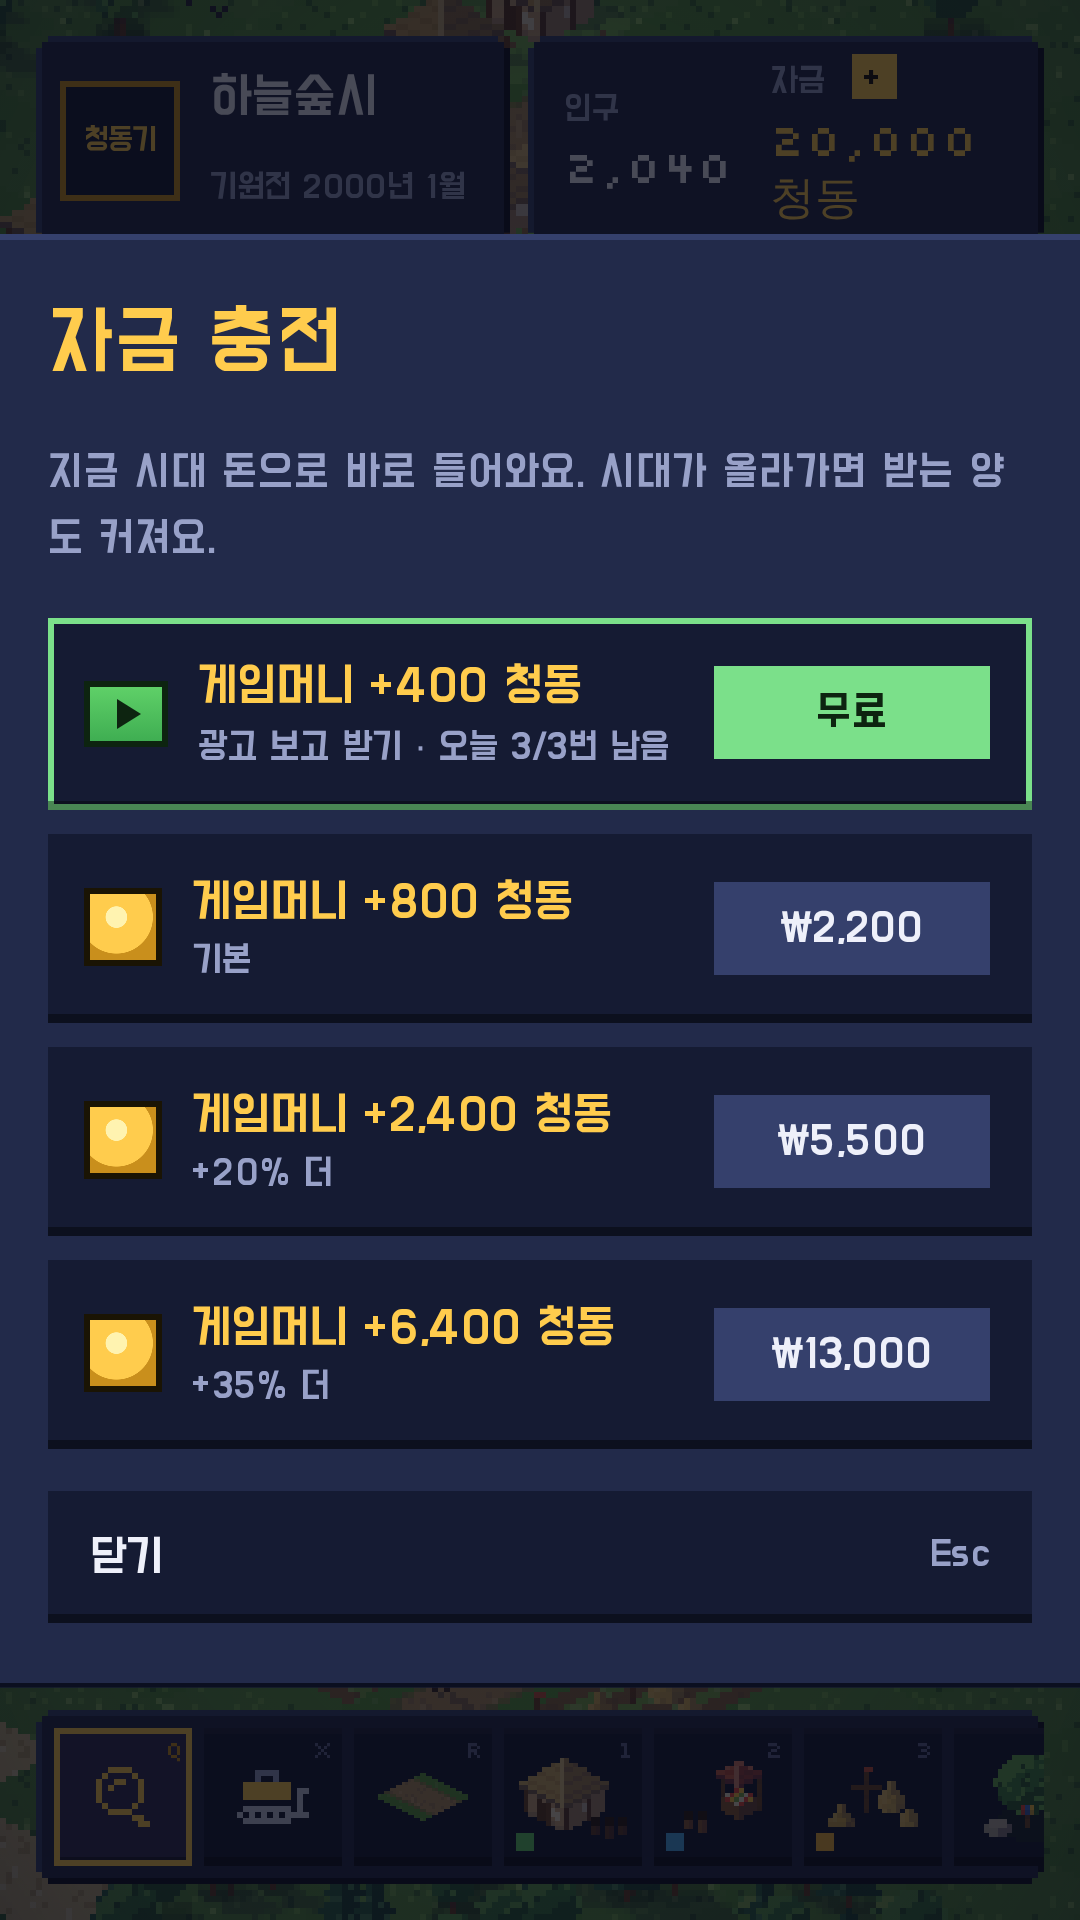
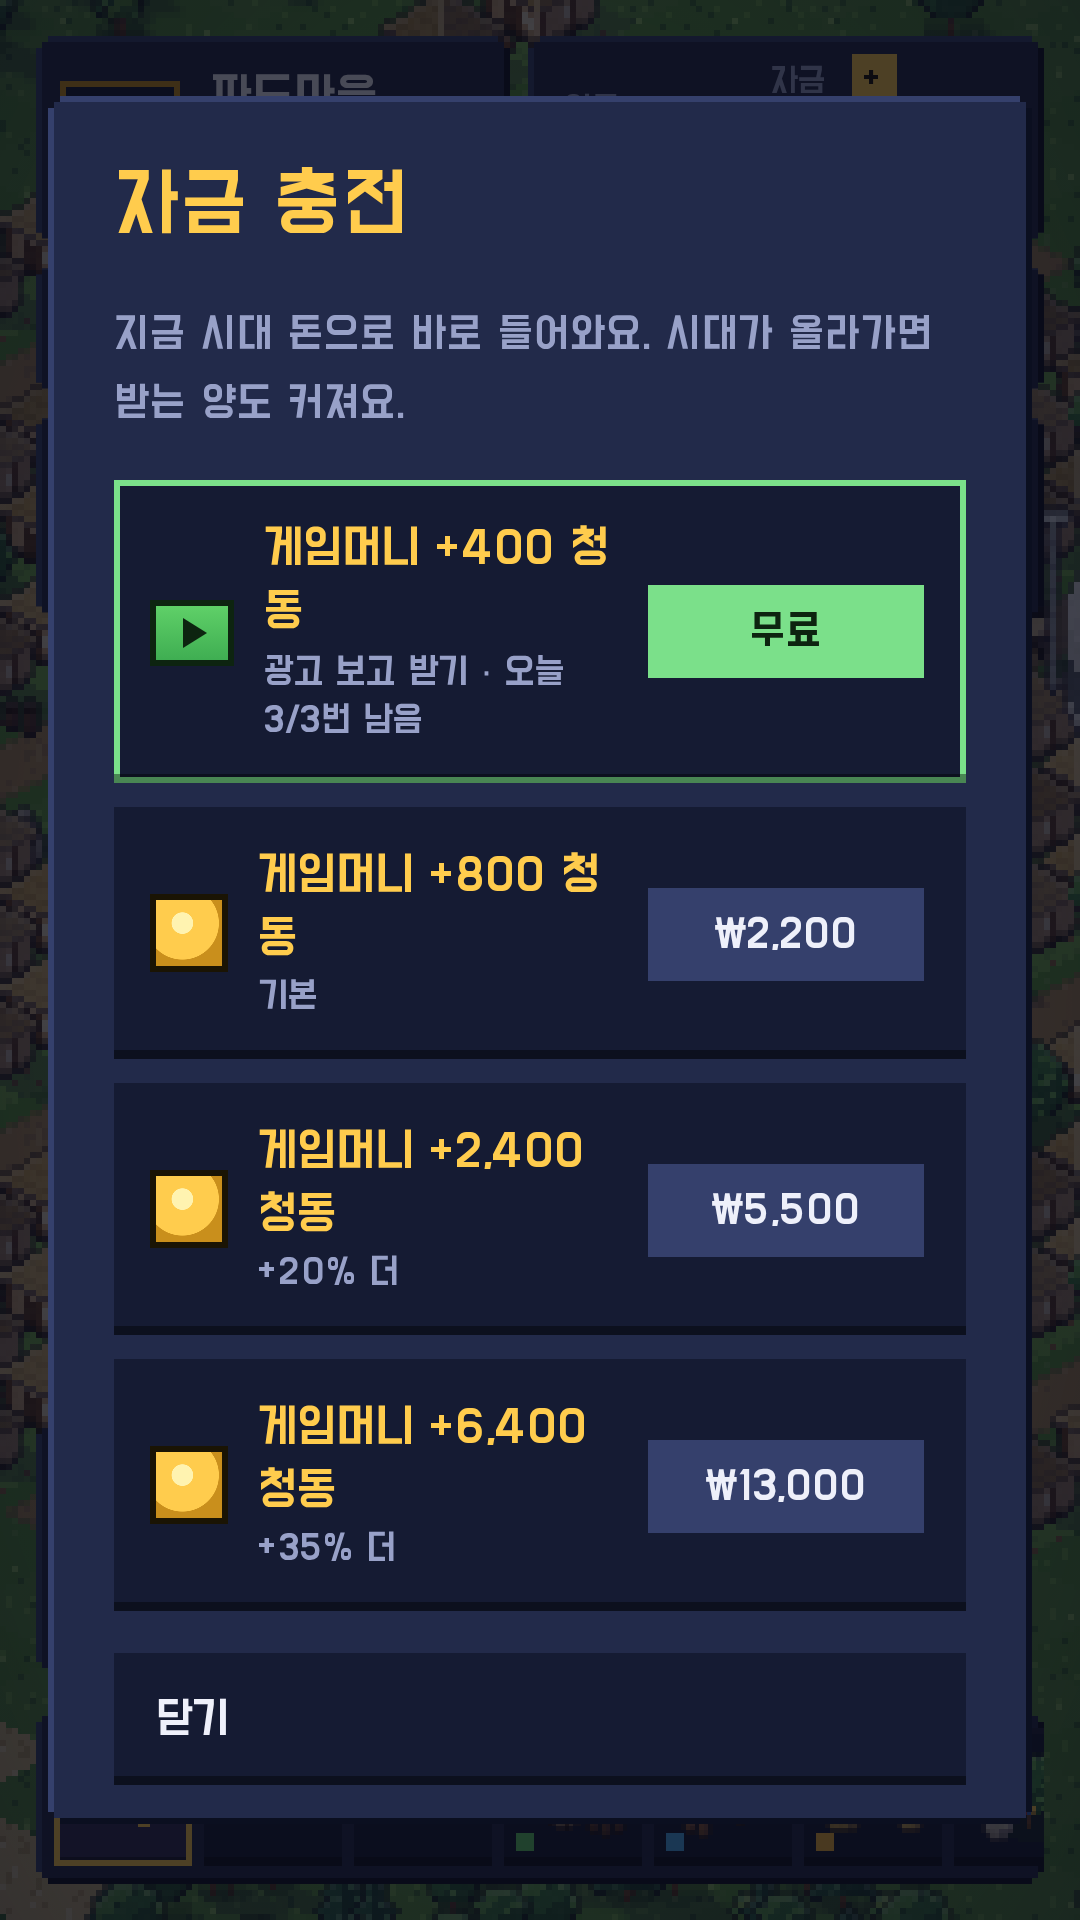
Store screenshots at 1206x2622 for App Store Connect's Dynamic Island iPhone slot
Claude-Session: https://claude.ai/code/session_01XxvA4eUhsjPuZbBYtpabHX

diff --git a/dotcity-app/README.md b/dotcity-app/README.md
@@ -15,7 +15,7 @@ dotcity-app/
 │  ├─ make-art.cjs         게임 스프라이트로 앱 아이콘·시작 화면 그리기
 │  └─ make-screenshots.cjs 스토어 스크린샷 그리기
 ├─ assets/                 아이콘·시작 화면 원본, 내장 폰트
-├─ store/screenshots/      스토어용 스크린샷 (iPhone 1290×2796, Android 1080×1920)
+├─ store/screenshots/      스토어용 스크린샷 (iPhone 1206×2622, Android 1080×1920)
 ├─ android/                Android Studio 프로젝트
 └─ ios/                    Xcode 프로젝트 (Swift Package Manager, CocoaPods 불필요)
 ```
@@ -79,7 +79,7 @@ Xcode에서는 처음 한 번 **App 타깃 → Signing & Capabilities → Team**
 2. [App Store Connect](https://appstoreconnect.apple.com) → **나의 앱 → +** → 번들 ID `com.eyisyun.dotcity`로 새 앱을 만듭니다.
 3. Xcode에서 기기를 **Any iOS Device**로 두고 **Product → Archive** → **Distribute App → App Store Connect**.
 4. App Store Connect에서 채울 것:
-   - 스크린샷: `store/screenshots/ios-*.png` (1290×2796)
+   - 스크린샷: `store/screenshots/ios-*.png` (1206×2622)
    - 설명·키워드(아래 예시), 카테고리 **게임 → 시뮬레이션**, 연령 등급 설문
    - 개인정보처리방침 URL, **앱 개인정보**: 광고(AdMob) 때문에 '기기 ID' 등을 표시 — 아래 5-2 참고
    - 수출 규정 질문은 `Info.plist`에 `ITSAppUsesNonExemptEncryption = NO`를 넣어 두어 생략됩니다.
